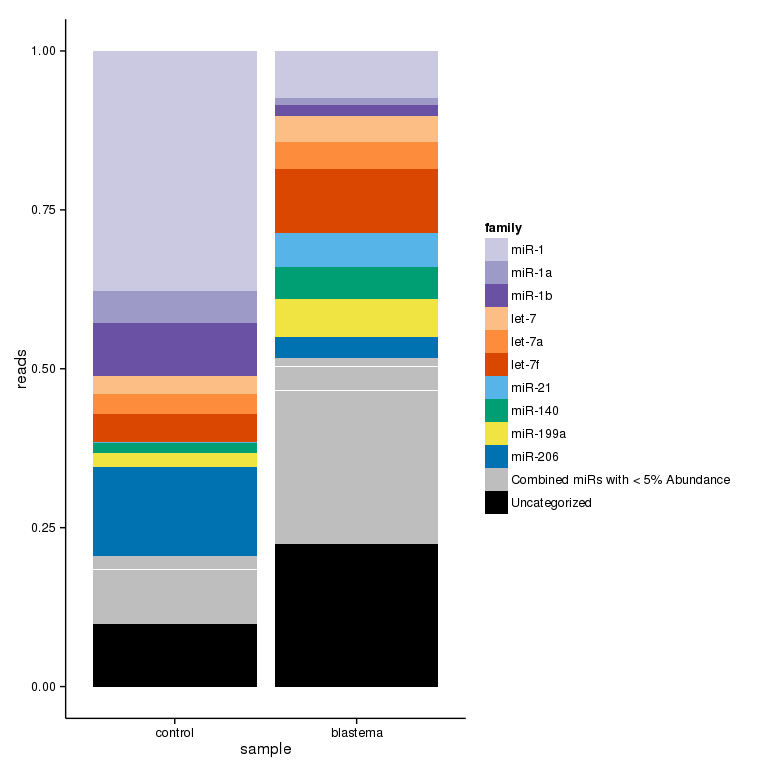
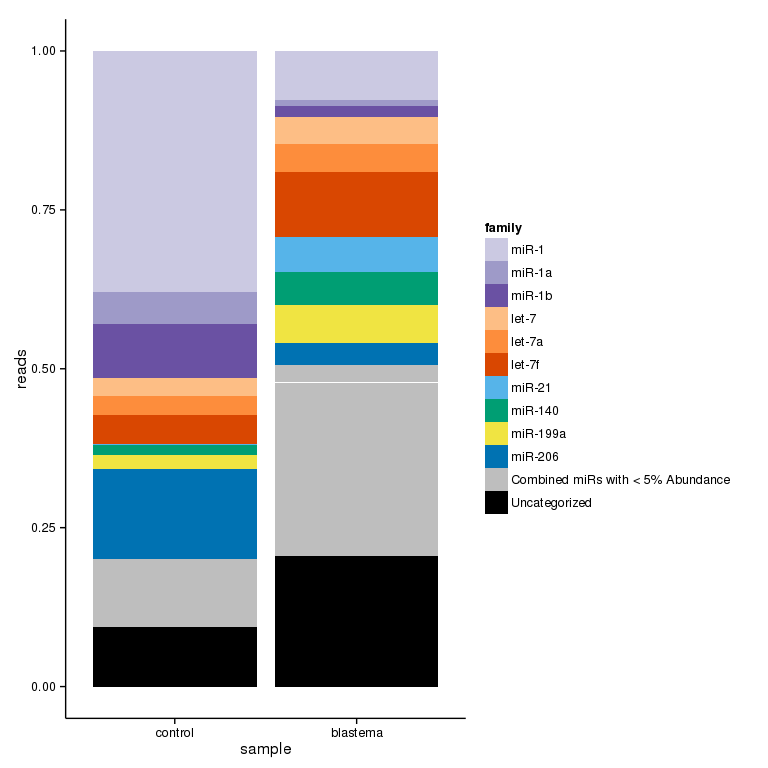
full run

diff --git a/README.md b/README.md
@@ -32,18 +32,40 @@ adapter <- DNAString("TCGTATGCCGTCTTCTGCTTGT")
 
 am1<-readBaseQuality("/home/echeverr/gearhart/miRNA-Solexa/AM0001", seqPattern="*_1.seq.txt", prbPattern="*_1.prb.txt",type="Solexa")
 length(am1)
+```
+
+    ## [1] 17878944
+
+``` r
+writeFastq(am1,file="am1.fastq",full=TRUE,compress=TRUE)
 am1<-am1[alphabetScore(am1) > 800]
 am1<-am1[vcountPattern("-",sread(am1))==0]
 am1trimmed<-trimLRPatterns(Rpattern=adapter,Lpattern=adapter,subject=am1,max.Rmismatch=0.1)
 length(am1)
+```
+
+    ## [1] 16691900
+
+``` r
 writeFastq(am1trimmed,file="am1_qf_trim.fastq",full=TRUE,compress=FALSE)
 
 am2<-readBaseQuality("/home/echeverr/gearhart/miRNA-Solexa/AM0002", seqPattern="*_1.seq.txt", prbPattern="*_1.prb.txt",type="Solexa")
 length(am2)
+```
+
+    ## [1] 21685056
+
+``` r
+writeFastq(am2,file="am2.fastq",full=TRUE,compress=TRUE)
 am2<-am2[alphabetScore(am2) > 800]
 am2<-am2[vcountPattern("-",sread(am2)) == 0]
 am2trimmed<-trimLRPatterns(Rpattern=adapter, Lpattern=adapter, subject=am2,max.Rmismatch=0.1)
 length(am2)
+```
+
+    ## [1] 20049802
+
+``` r
 writeFastq(am2trimmed,file="am2_qf_trim.fastq",full=TRUE,compress=FALSE)
 ```
 
@@ -73,9 +95,30 @@ system2(command="/home/bardwell/shared/bowtie-1.1.2/bowtie",
                     "-S am1_qf_trim.mature.sam"),
         stdout="am1_out.txt",stderr="am1_err.txt")
 asBam("am1_qf_trim.mature.sam",destination="am1_qf_trim.unsorted")
-sortBam("am1_qf_trim.unsorted.bam",destination="am1_qf_trim.mature")
-indexBam("am1_qf_trim.mature.bam")
+```
 
+    ## Warning in .local(file, destination, ...): [bam_sort_core] merging from 5
+    ## files...
+
+    ## [1] "am1_qf_trim.unsorted.bam"
+
+``` r
+sortBam("am1_qf_trim.unsorted.bam",destination="am1_qf_trim.mature")
+```
+
+    ## Warning in .local(file, destination, ...): [bam_sort_core] merging from 5
+    ## files...
+
+    ## [1] "am1_qf_trim.mature.bam"
+
+``` r
+indexBam("am1_qf_trim.mature.bam")
+```
+
+    ##       am1_qf_trim.mature.bam 
+    ## "am1_qf_trim.mature.bam.bai"
+
+``` r
 #am2
 system2(command="/home/bardwell/shared/bowtie-1.1.2/bowtie",
         args=paste0("-t -p 24 -e 99999 --norc mature ",
@@ -84,9 +127,28 @@ system2(command="/home/bardwell/shared/bowtie-1.1.2/bowtie",
                     "-S am2_qf_trim.mature.sam"),
         stdout="am2_out.txt",stderr="am2_err.txt")
 asBam("am2_qf_trim.mature.sam",destination="am2_qf_trim.unsorted")
+```
+
+    ## Warning in .local(file, destination, ...): [bam_sort_core] merging from 6
+    ## files...
+
+    ## [1] "am2_qf_trim.unsorted.bam"
+
+``` r
 sortBam("am2_qf_trim.unsorted.bam",destination="am2_qf_trim.mature")
+```
+
+    ## Warning in .local(file, destination, ...): [bam_sort_core] merging from 6
+    ## files...
+
+    ## [1] "am2_qf_trim.mature.bam"
+
+``` r
 indexBam("am2_qf_trim.mature.bam")
 ```
+
+    ##       am2_qf_trim.mature.bam 
+    ## "am2_qf_trim.mature.bam.bai"
 
 Read in sequences unmapped to MirBase 21
 ========================================
@@ -96,9 +158,24 @@ This section reads in the fastq sequences that did not have any matches to mirBa
 ``` r
 fls<-list.files(".",pattern=glob2rx("am?_qf_trim.unmapped2mature.fastq"),full.names=F)
 fls
+```
+
+    ## [1] "am1_qf_trim.unmapped2mature.fastq" "am2_qf_trim.unmapped2mature.fastq"
+
+``` r
 temp<-do.call(cbind,lapply(fls,readFastq))
 table(width(sread(temp[[1]])))
+```
 
+    ## 
+    ##      12      13      14      15      16      17      18      19      20 
+    ##      15     934   31058   67282  139399  106004  108310  105554  139588 
+    ##      21      22      23      24      25      26      27      28      29 
+    ##  903630  440172  196146   93756   66072   51724   52108   55678   61394 
+    ##      30      31      32      33      34      35      36 
+    ##   52524   50032   77236  261588 1429864  529674  236072
+
+``` r
 fullSeqHash <- function (x) {
   x<-x[width(x)>19 & width(x)<24] #based on table above
   seed<-as.data.frame(table(as.factor(as.character(sread(x)))))
@@ -111,7 +188,35 @@ names(amFSH)<-c("am1","am2")
 for (i in names(amFSH)) {amFSH[[i]]$sample <- i}
 amFSH<-do.call(rbind,amFSH) %>% spread(sample,Freq,fill=0)
 dim(amFSH)
+```
+
+    ## [1] 766039      3
+
+``` r
 amFSH[grep("GGCTTCAAGGATCGCTCGGG",amFSH$Var1),]
+```
+
+    ##                           Var1 am1 am2
+    ## 228222    GGCTTCAAGGATCGCTCGGG  16 180
+    ## 228223   GGCTTCAAGGATCGCTCGGGA   8  18
+    ## 228224 GGCTTCAAGGATCGCTCGGGAAA   2   2
+    ## 228225 GGCTTCAAGGATCGCTCGGGAAT   2   0
+    ## 228226   GGCTTCAAGGATCGCTCGGGC  40  84
+    ## 228227  GGCTTCAAGGATCGCTCGGGCA 144 582
+    ## 228228 GGCTTCAAGGATCGCTCGGGCAA  44 212
+    ## 228229 GGCTTCAAGGATCGCTCGGGCAC  18  40
+    ## 228230 GGCTTCAAGGATCGCTCGGGCAG   2   2
+    ## 228231 GGCTTCAAGGATCGCTCGGGCAT  46  78
+    ## 228232  GGCTTCAAGGATCGCTCGGGCC   2   8
+    ## 228233 GGCTTCAAGGATCGCTCGGGCCT  10   0
+    ## 228234 GGCTTCAAGGATCGCTCGGGTAA   2   2
+    ## 705698  GGCTTCAAGGATCGCTCGGGAA   0   6
+    ## 705699  GGCTTCAAGGATCGCTCGGGAC   0   2
+    ## 705700  GGCTTCAAGGATCGCTCGGGAT   0   2
+    ## 705701  GGCTTCAAGGATCGCTCGGGCG   0   2
+    ## 705702 GGCTTCAAGGATCGCTCGGGCGT   0   2
+
+``` r
 save(amFSH,file="amFSH.rdata")
 ```
 
@@ -120,14 +225,46 @@ Cluster similar Sequences
 
 ``` r
 (nt<-detectCores())
+```
+
+    ## [1] 24
+
+``` r
 register(MulticoreParam(workers=nt))
 #load("amFSH.rdata")
 amFSHs<-amFSH %>% filter((am1+am2)>7)
 dim(amFSHs)
+```
+
+    ## [1] 41233     3
+
+``` r
 system.time(d<-as.dist(stringdistmatrix(amFSHs$Var1,amFSHs$Var1,method="lv",nthread=nt)))
+```
+
+    ##     user   system  elapsed 
+    ## 4767.932   94.047  284.034
+
+``` r
 object_size(d)
+```
+
+    ## 6.8 GB
+
+``` r
 system.time(h<-hclust(d))
+```
+
+    ##    user  system elapsed 
+    ##  73.335   1.330  74.688
+
+``` r
 object_size(h)
+```
+
+    ## 826 kB
+
+``` r
 amFSHs$clust2<-cutree(h,h=2)
 amFSHs$clust3<-cutree(h,h=3)
 amFSHs$clust4<-cutree(h,h=4)
@@ -241,7 +378,7 @@ matdensity(as.matrix(log2(am_mature[am_mature$am1+am_mature$am2 > 5,c("am1","am2
 #qtest <- quantro(as.matrix(log2(am_mature[am_mature$am1+am_mature$am2 > 7,c("am1","am2")]+0.5)),
 #groupFactor = factor(c("am1","am2")))
 
-#subset to samples with more than 7 counts
+#subset to samples with more than 5 counts
 am_mature<-am_mature[am_mature$am1+am_mature$am2 > 5,c("family","am1","am2")]
 
 #qqnorm(log2(am_mature$am1+0.5))
@@ -249,34 +386,54 @@ am_mature<-am_mature[am_mature$am1+am_mature$am2 > 5,c("family","am1","am2")]
 #not norml
 
 #quantile normalize
-#am_mature<-cbind(am_mature,
-#                 as.data.frame(normalize.quantiles(as.matrix(am_mature[,c("am1","am2")]))))
+am_mature<-cbind(am_mature,
+                 as.data.frame(normalize.quantiles(as.matrix(am_mature[,c("am1","am2")]))))
+colnames(am_mature)<-c("family","am1","am2","qn.am1","qn.am2")
+
 #
 #                 varianceStabilizingTransformation(as.matrix(am_mature[,c("am1","am2")])))
-
 #colnames(am_mature)<-c("family","am1","am2","qn.am1","qn.am2","vst.am1","vst.am2")
-#colnames(am_mature)<-c("am1","am2","family","qn.am1","qn.am2")
 
-#am_mature$log2am1<-log2(am_mature$qn.am1+0.5)
-#am_mature$log2am2<-log2(am_mature$qn.am2+0.5)
+am_mature$log2am1<-log2(am_mature$qn.am1+0.5)
+am_mature$log2am2<-log2(am_mature$qn.am2+0.5)
 #qqnorm(am_mature$rl.am1)
-#m<-am_mature[am_mature$family!="unknown",]$log2am1-am_mature[am_mature$family!="unknown",]$log2am2
-#a<-(am_mature[am_mature$family!="unknown",]$log2am1+am_mature[am_mature$family!="unknown",]$log2am2)/2
+m<-am_mature[am_mature$family!="unknown",]$log2am1-am_mature[am_mature$family!="unknown",]$log2am2
+a<-(am_mature[am_mature$family!="unknown",]$log2am1+am_mature[am_mature$family!="unknown",]$log2am2)/2
 #m<-am_mature$vst.am1-am_mature$vst.am2
 #a<-(am_mature$vst.am1+am_mature$vst.am2)/2
-#plot(a,m,cex=0.4,pch=16,col=ifelse(am_mature$family=="unknown","red","black"))
-#abline(h=0,col="black")
-#am_mature$logfc<-am_mature$vst.am2-am_mature$vst.am1
+plot(a,m,cex=0.4,pch=16,col=ifelse(am_mature$family=="unknown","red","black"))
+abline(h=0,col="red")
+```
+
+![](README_files/figure-markdown_github/countBam-3.png)
+
+``` r
+am_mature$logfc<-am_mature$log2am2-am_mature$log2am1
 #head(am_mature)
 
-#tbl1_miRs<-c("let-7","let-7a","let-7f","miR-10","miR-21",
-#             "miR-27","miR-128","miR-140","miR-196","miR-199a","miR-206")
-#tbl1<-am_mature %>% dplyr::filter(family %in% tbl1_miRs) %>% group_by(family) %>% 
-#  summarize(control=sum(am1),blastema=sum(am2)) %>% 
-#  mutate(fam=factor(family,levels=tbl1_miRs)) %>% 
-#  select(fam,control,blastema)
-#tbl1
+tbl1_miRs<-c("let-7","let-7a","let-7f","miR-10","miR-21",
+             "miR-27","miR-128","miR-140","miR-196","miR-199a","miR-206")
+tbl1<-am_mature %>% dplyr::filter(family %in% tbl1_miRs) %>% group_by(family) %>% 
+  summarize(control=sum(am1),blastema=sum(am2)) %>% 
+  mutate(fam=factor(family,levels=tbl1_miRs)) %>% 
+  select(fam,control,blastema)
+tbl1
 ```
+
+    ## Source: local data frame [11 x 3]
+    ## 
+    ##         fam control blastema
+    ## 1     let-7  358964   423854
+    ## 2    let-7a  386281   434169
+    ## 3    let-7f  562472  1021519
+    ## 4    miR-10    5578    10653
+    ## 5   miR-128    4193     4943
+    ## 6   miR-140  195894   508891
+    ## 7   miR-196     162     1267
+    ## 8  miR-199a  279622   599913
+    ## 9   miR-206 1774460   340687
+    ## 10   miR-21   30904   549905
+    ## 11   miR-27      63      232
 
 Export Tables for Known Sequences
 =================================
@@ -331,6 +488,8 @@ asFamilies %>%
     scale_fill_manual(values=rev(colors),guide = guide_legend(reverse=TRUE)) +
     geom_bar(stat="identity") +theme_classic()
 ```
+
+![](README_files/figure-markdown_github/barchart-1.png)
 
 Create Table of Validated Novel miRs
 ====================================
@@ -483,8 +642,9 @@ sessionInfo()
     ## [49] stringr_0.6.2          sendmailR_1.2-1        locfit_1.5-9.1        
     ## [52] munsell_0.4.2          rngtools_1.2.4         AnnotationDbi_1.28.1  
     ## [55] base64_1.1             RCurl_1.95-4.4         grid_3.2.0            
-    ## [58] iterators_1.0.7        bitops_1.0-6           base64enc_0.1-2       
-    ## [61] rmarkdown_0.7          gtable_0.1.2           codetools_0.2-11      
-    ## [64] multtest_2.24.0        DBI_0.3.1              reshape_0.8.5         
-    ## [67] reshape2_1.4.1         illuminaio_0.10.0      rtracklayer_1.26.2    
-    ## [70] knitr_1.9              BatchJobs_1.6          Rcpp_0.11.6
+    ## [58] iterators_1.0.7        labeling_0.3           bitops_1.0-6          
+    ## [61] base64enc_0.1-2        rmarkdown_0.7          gtable_0.1.2          
+    ## [64] codetools_0.2-11       multtest_2.24.0        DBI_0.3.1             
+    ## [67] reshape_0.8.5          reshape2_1.4.1         illuminaio_0.10.0     
+    ## [70] rtracklayer_1.26.2     knitr_1.9              BatchJobs_1.6         
+    ## [73] Rcpp_0.11.6
